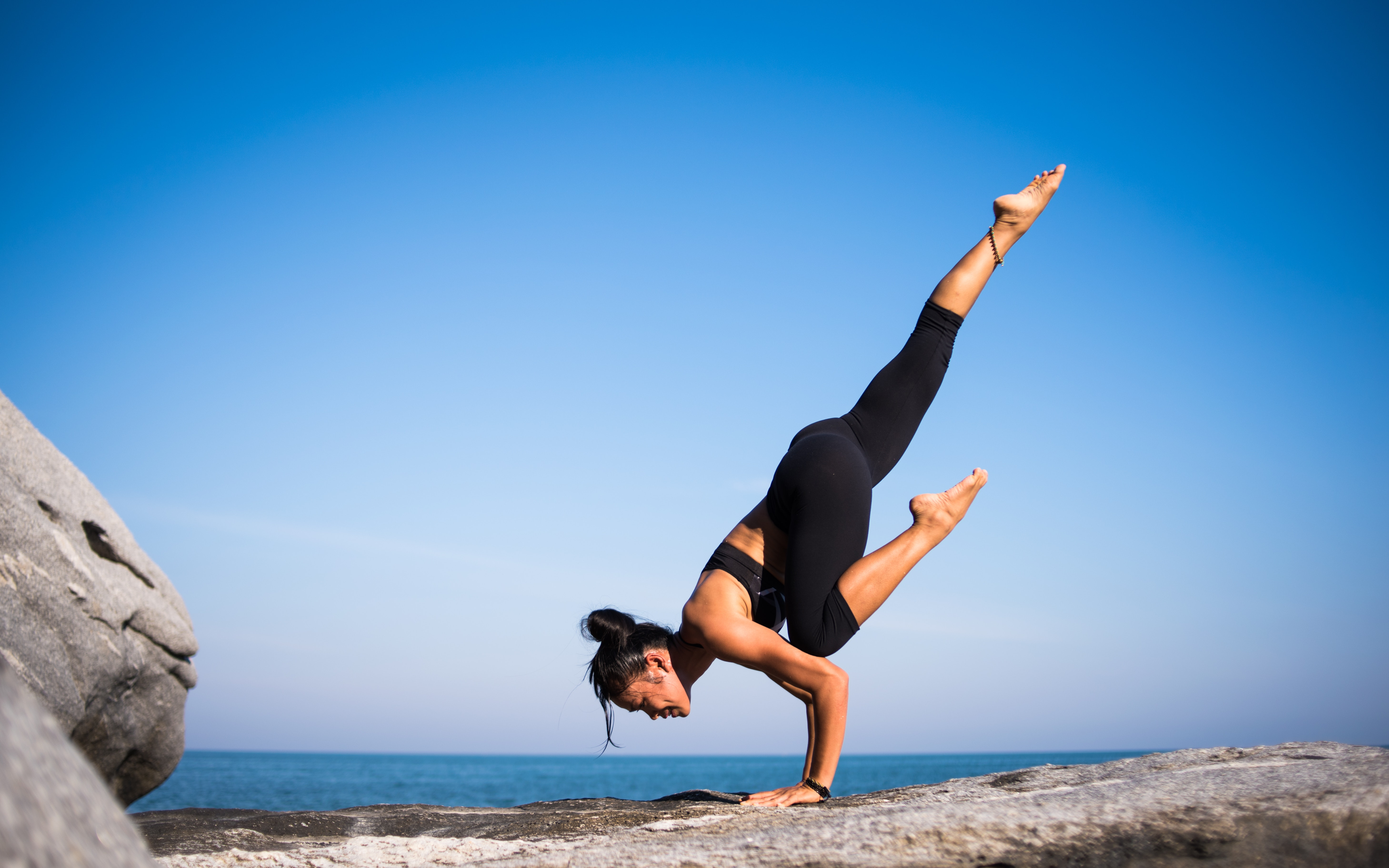
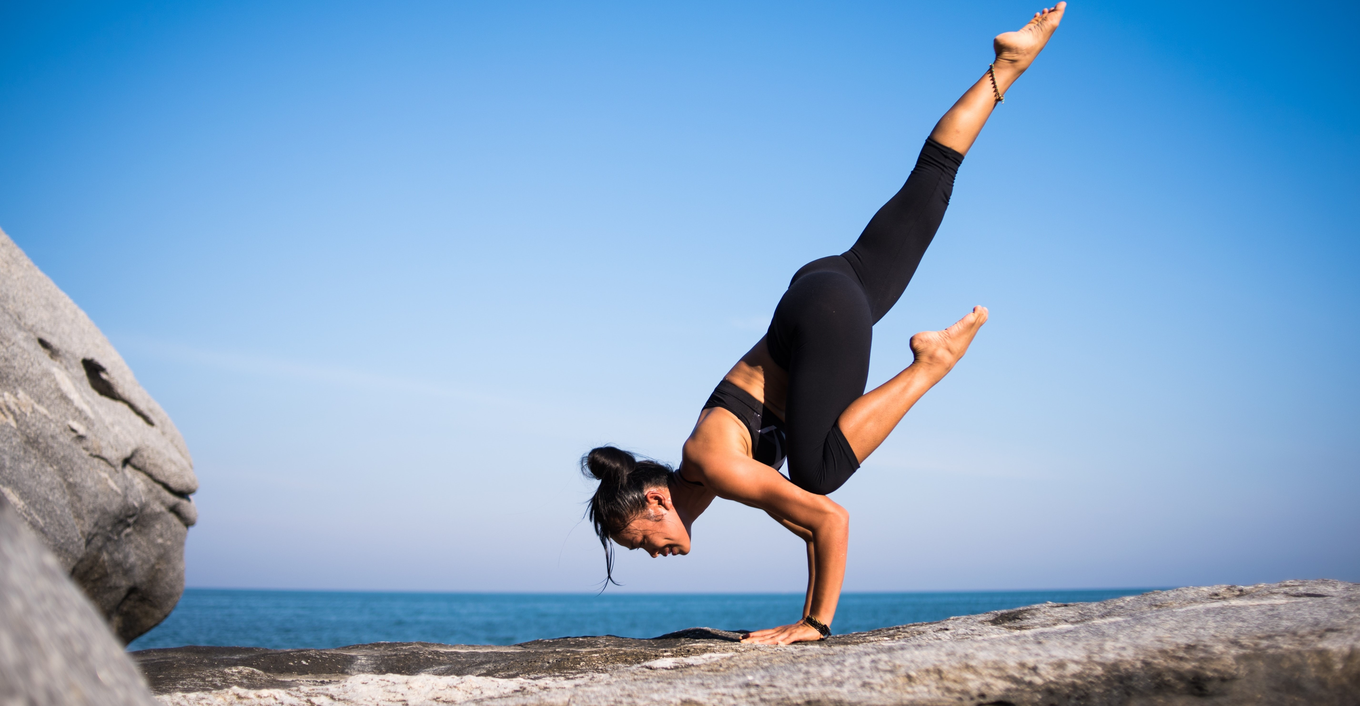
Ajustes

diff --git a/MENU-OPCOES/cadastrar.css b/MENU-OPCOES/cadastrar.css
@@ -45,7 +45,7 @@ align-items: center;
 .btnHEADER{
   display: flex;
   justify-content:center;
-  background-color: white;    
+  background-color: white;
 }
 .btnHEADER1{
   display: flex;
@@ -89,15 +89,15 @@ margin-left: 15px;
 
 /*AGORA COMEÇA O MAIN*/
 main{
-  
+
   display: grid;
   display: flex;
   /* flex-wrap: wrap; */
   background-image: url(../midia/15.jpg);
-  height:60vw ;
+  /* height:60vw ; */
   background-size: cover ;
   background-repeat: no-repeat;
-} 
+}
 
 form{
   width: 400px;
@@ -107,14 +107,14 @@ form{
   background-color: rgb(231, 126, 161);
   padding: 10px;
   border-radius: 20px;
- 
+
 }
 input{
   display: block;
   margin: 10px auto;
   width: 250px;
   height: 30px;
-  
+
 }
 
 /*AQUI COMEÇA O FOOTER*/
